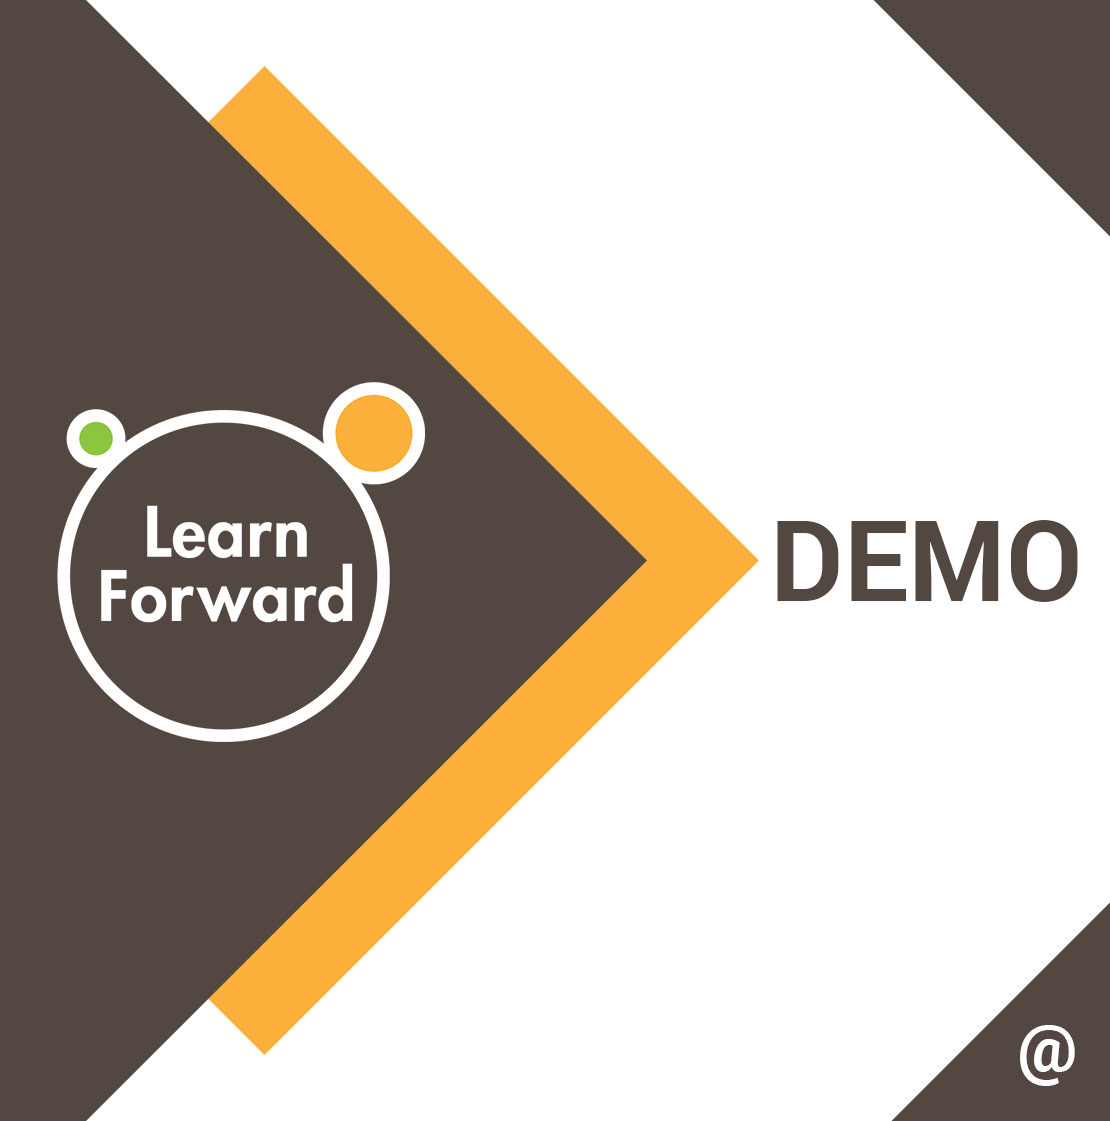
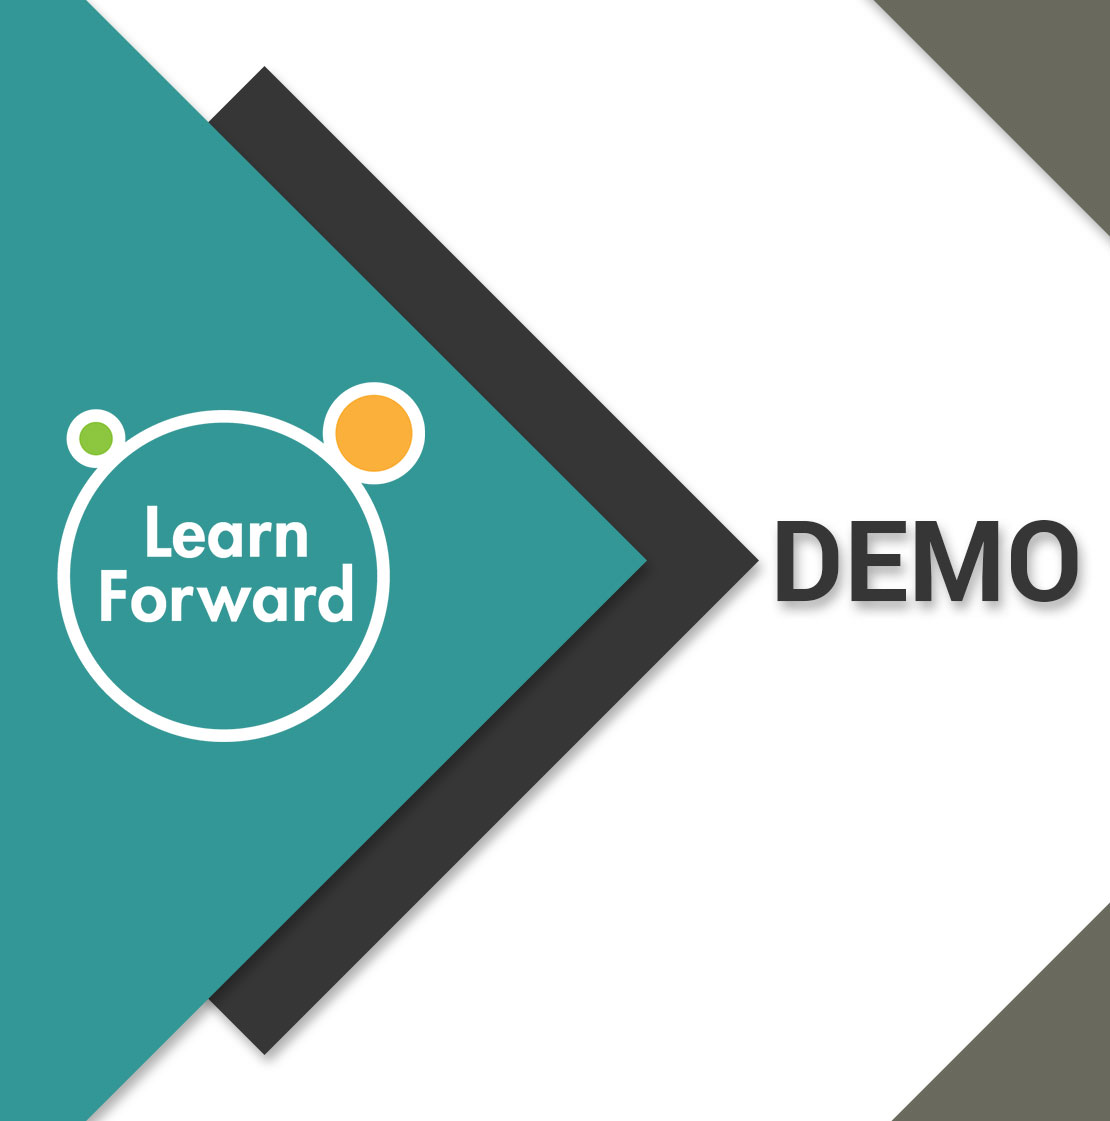
cover version 2, contact page, headers

diff --git a/js/index.js b/js/index.js
@@ -1,6 +1,11 @@
-// var App = require('lfa-core').App;
-// var $ = require('jquery');
+var App = require('lfa-core').App;
+var $ = require('jquery');
 // App.book.on('render', function() {
+//   if(window.location.href.substr(-12) == 'ch99-contact')
+//     {
+//       $('#textbook').css('padding','0');
+//       $('section').css('padding','0');
+//     }
 // });
 //   if($('li.active').parent(0).is('li'))
 //     {
